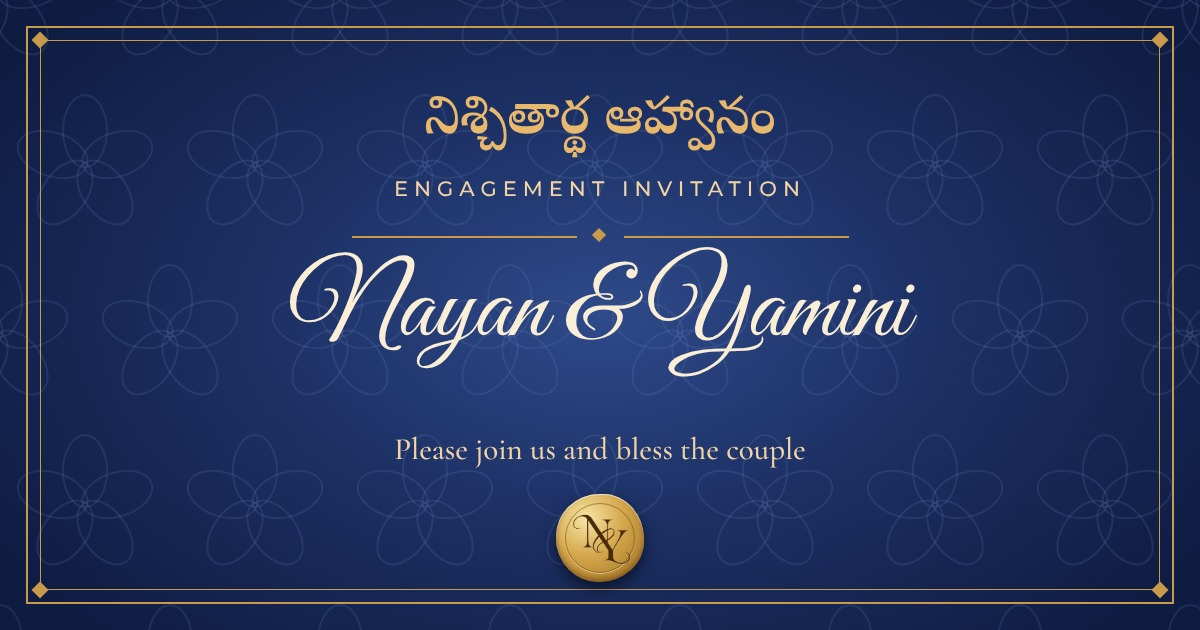
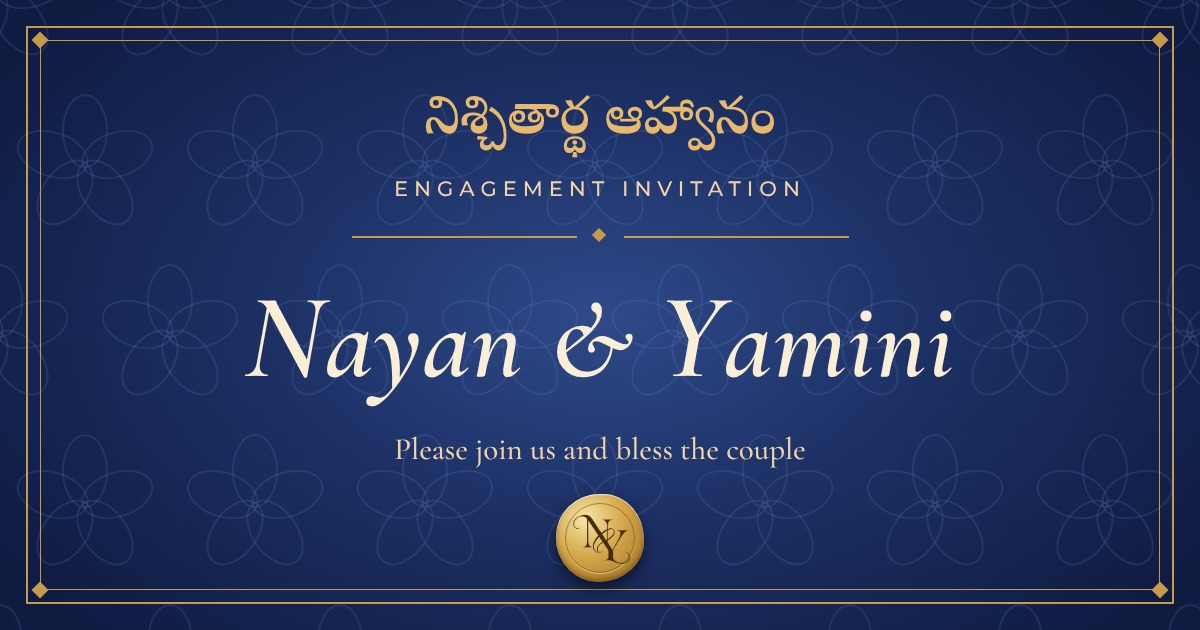
single scratch card

Changed region(s): [[0.2158, 0.3921, 0.8017, 0.6635], [0.185, 0.573, 0.2158, 0.6032]]

diff --git a/src/index.css b/src/index.css
@@ -258,6 +258,13 @@ img, svg { max-width: 100%; }
 .scratch-hint { position: absolute; left: 20%; top: 50%; width: 38px; height: 38px; margin: -19px 0 0 -19px; border-radius: 50%; pointer-events: none; background: radial-gradient(circle, rgba(255, 238, 196, 0.95), rgba(255, 238, 196, 0) 70%); box-shadow: 0 0 0 2px rgba(255, 238, 196, 0.6); animation: hint 2.4s ease-in-out infinite; }
 @keyframes hint { 0% { left: 18%; transform: translateY(-22px); } 25% { transform: translateY(18px); } 50% { left: 52%; transform: translateY(-18px); } 75% { transform: translateY(22px); } 100% { left: 82%; transform: translateY(-14px); } }
 
+.scratch-single { display: block; width: 100%; }
+.scratch-single .scratch { width: 100%; }
+.scratch-full .scratch-label { text-align: center; padding-left: 0.3em; white-space: nowrap; }
+.scratch-full .scratch-box { height: auto; aspect-ratio: 16 / 10; width: 100%; border-radius: 20px; container-type: inline-size; }
+.scratch-full .scratch-value > span { display: flex; flex-direction: column; align-items: center; gap: 2cqw; }
+.scratch-full .scratch-value small { font: 400 17px/1 var(--f-display); font-size: clamp(14px, 5.6cqw, 24px); letter-spacing: 0.38em; padding-left: 0.38em; color: var(--maroon); }
+.scratch-full .scratch-value b { font: 400 78px/1 var(--f-display); font-size: clamp(60px, 31cqw, 130px); color: var(--maroon); }
 .std-foot { margin-top: 30px; min-height: 76px; display: flex; flex-direction: column; align-items: center; gap: 12px; }
 .std-caption { margin: 0; font: italic 500 22px var(--f-serif); color: var(--maroon); }
 .std-progress { margin: 0; font: italic 400 15px var(--f-serif); color: var(--muted); }
@@ -420,8 +427,8 @@ img, svg { max-width: 100%; }
 @keyframes cpTwinkle { 0%, 100% { opacity: 0.15; transform: scale(0.5) rotate(0deg); } 50% { opacity: 1; transform: scale(1.1) rotate(45deg); } }
 .cp-heart { position: absolute; width: 26px; height: 26px; pointer-events: none; z-index: 20; filter: drop-shadow(0 3px 4px rgba(31, 54, 109, 0.3)); }
 .cp-cap { display: flex; flex-direction: column; align-items: center; gap: 6px; margin-top: 34px; }
-.cp-names { font: 400 clamp(34px, 10vw, 42px)/1.1 var(--f-script); color: var(--maroon); }
-.cp-names em { font-style: normal; color: var(--gold); margin: 0 0.18em; }
+.cp-names { font: italic 600 clamp(38px, 11vw, 48px)/1.1 var(--f-serif); letter-spacing: 0.01em; color: var(--maroon); }
+.cp-names em { font-style: italic; color: var(--gold); margin: 0 0.18em; }
 .cp-note { display: inline-flex; align-items: center; gap: 10px; font: 500 10px var(--f-sans); letter-spacing: 0.34em; text-transform: uppercase; color: var(--muted); }
 .cp-note svg { width: 13px; height: 13px; fill: var(--terra); animation: cpBeat 1.5s ease-in-out infinite; }
 @keyframes cpBeat { 0%, 40%, 100% { transform: scale(1); } 15% { transform: scale(1.3); } 30% { transform: scale(1.08); } }

diff --git a/src/components/ScratchCard.jsx b/src/components/ScratchCard.jsx
@@ -53,7 +53,7 @@ function paintFoil(canvas, w, h, dpr) {
   g.fillText('✦', w / 2, h / 2 - 8);
 }
 
-export default function ScratchCard({ label, value, index, onDone, showHint, onTouched }) {
+export default function ScratchCard({ label, value, index, variant, onDone, showHint, onTouched }) {
   const wrap = useRef(null);
   const cv = useRef(null);
   const st = useRef({ drawing: false, last: null, done: false, lastCheck: 0, dpr: 1, w: 0, h: 0 });
@@ -104,7 +104,7 @@ export default function ScratchCard({ label, value, index, onDone, showHint, onT
     const g = cv.current.getContext('2d');
     g.setTransform(st.current.dpr, 0, 0, st.current.dpr, 0, 0);
     g.globalCompositeOperation = 'destination-out';
-    g.lineWidth = 34;
+    g.lineWidth = variant === 'full' ? 46 : 34;
     g.lineCap = 'round';
     g.lineJoin = 'round';
     g.beginPath();
@@ -140,7 +140,7 @@ export default function ScratchCard({ label, value, index, onDone, showHint, onT
   };
 
   return (
-    <div className={`scratch scratch-${index} ${done ? 'is-done' : ''}`}>
+    <div className={`scratch scratch-${index} ${variant === 'full' ? 'scratch-full' : ''} ${done ? 'is-done' : ''}`}>
       <span className="scratch-label">{label}</span>
       <div className="scratch-box" ref={wrap}>
         <div className="scratch-value" aria-live="polite">
@@ -154,7 +154,7 @@ export default function ScratchCard({ label, value, index, onDone, showHint, onT
           onPointerMove={move}
           onPointerUp={up}
           onPointerCancel={up}
-          aria-label={`Scratch to reveal the ${label.toLowerCase()}`}
+          aria-label={`Scratch to reveal: ${label}`}
         />
         {showHint && !done && <span className="scratch-hint" aria-hidden />}
         <button className="sr-only" onClick={finish}>Reveal {label}</button>

diff --git a/src/components/SaveTheDate.jsx b/src/components/SaveTheDate.jsx
@@ -10,7 +10,7 @@ export default function SaveTheDate() {
   const [count, setCount] = useState(0);
   const [touched, setTouched] = useState(false);
   const fired = useRef(false);
-  const done = count >= 3;
+  const done = count >= 1;
 
   const onDone = useCallback(() => setCount((c) => c + 1), []);
 
@@ -34,18 +34,22 @@ export default function SaveTheDate() {
         <p className="lede">Scratch below to reveal our engagement date</p>
       </Reveal>
 
-      <Reveal className="scratch-row" delay={0.15}>
-        <ScratchCard index={0} label="Month" value={D.month} onDone={onDone} showHint={!touched} onTouched={() => setTouched(true)} />
-        <ScratchCard index={1} label="Day" value={D.day} onDone={onDone} onTouched={() => setTouched(true)} />
-        <ScratchCard index={2} label="Year" value={D.year} onDone={onDone} onTouched={() => setTouched(true)} />
+      <Reveal className="scratch-single" delay={0.15}>
+        <ScratchCard
+          index={0}
+          variant="full"
+          label="Our Engagement Date"
+          value={<><small>{D.month}</small><b>{D.day}</b><small>{D.year}</small></>}
+          onDone={onDone}
+          showHint={!touched}
+          onTouched={() => setTouched(true)}
+        />
       </Reveal>
 
       <div className="std-foot">
-        
         <motion.div initial={false} animate={{ opacity: done ? 1 : 0.0 }} transition={{ delay: 0.9 }}>
           <Divider width={150} />
         </motion.div>
-        {!done && <p className="std-progress">{count} of 3 revealed</p>}
       </div>
     </section>
   );

diff --git a/src/main.jsx b/src/main.jsx
@@ -5,6 +5,7 @@ import '@fontsource/cormorant-garamond/500.css';
 import '@fontsource/cormorant-garamond/600.css';
 import '@fontsource/cormorant-garamond/400-italic.css';
 import '@fontsource/cormorant-garamond/500-italic.css';
+import '@fontsource/cormorant-garamond/600-italic.css';
 import '@fontsource/playfair-display/400.css';
 import '@fontsource/playfair-display/500.css';
 import '@fontsource/great-vibes/400.css';
